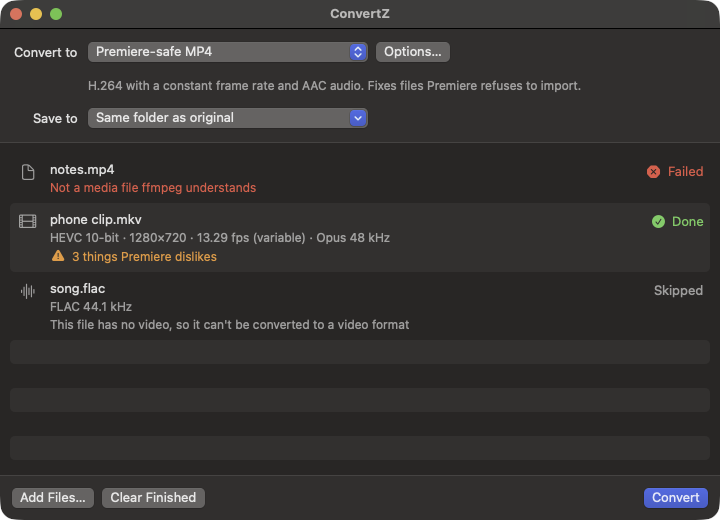
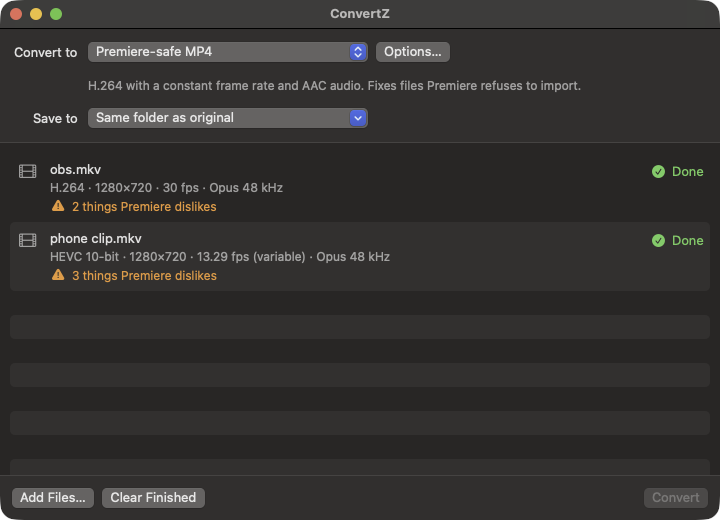
Put clean Premiere import ahead of stream copying: stricter copy rules

diff --git a/Sources/ConvertZCore/CommandBuilder.swift b/Sources/ConvertZCore/CommandBuilder.swift
@@ -56,7 +56,7 @@ public enum CommandBuilder {
                 a += ["-c:a", depth == 24 ? "pcm_s24le" : "pcm_s16le"]
                 if options.wavSampleRate != 0 { a += ["-ar", "\(options.wavSampleRate)"] }
             case .m4a:
-                if options.keepCompatibleStreams, audio.codec == "aac" {
+                if options.keepCompatibleStreams, audio.codec == "aac", audio.profile == "LC" {
                     a += ["-c:a", "copy"]
                 } else {
                     a += ["-c:a", "aac", "-b:a", "\(aacBitrate(channels: audio.channels, stereo: 256))k"]
@@ -85,7 +85,6 @@ public enum CommandBuilder {
             a += ["-map", "0:a?", "-sn", "-dn", "-map_metadata", "0"]
             if keepsVideo(preset: preset, options: options, info: info) {
                 a += ["-c:v", "copy"]
-                if video.codec == "hevc" { a += ["-tag:v", "hvc1"] }
             } else {
                 a += ["-vf", filters(video, options, pixelFormat: "yuv420p")]
                 if options.encoder == .fast {
@@ -98,7 +97,7 @@ public enum CommandBuilder {
                 a += ["-pix_fmt", "yuv420p"]
             }
             if hasAudio {
-                if options.keepCompatibleStreams, info.audio.allSatisfy({ $0.codec == "aac" }) {
+                if options.keepCompatibleStreams, info.audio.allSatisfy(\.isPremiereSafeAAC) {
                     a += ["-c:a", "copy"]
                 } else {
                     let channels = info.audio.compactMap(\.channels).max()
@@ -148,16 +147,19 @@ public enum CommandBuilder {
         return stereo * n / 2
     }
 
-    /// True when Premiere-safe MP4 can pass the video through untouched: it is already in a form Premiere reads,
-    /// nothing asks for it to change, and something else about the file (container or audio) explains why it
-    /// needs converting. A file with no visible problem at all is re-encoded in full, since whatever is wrong
-    /// with it is hidden and a copy would carry it over.
+    /// True when Premiere-safe MP4 can pass the video through untouched. Importing cleanly comes first, so this
+    /// is deliberately strict; anything in doubt is re-encoded. The video must be 8-bit 4:2:0 H.264 whose frame
+    /// timestamps were measured across the whole file and found evenly spaced, starting at zero, with nothing
+    /// asking for it to change, and something else about the file (container or audio) must explain why it needs
+    /// converting. A file with no visible problem at all is re-encoded in full, since whatever is wrong with it
+    /// is hidden and a copy would carry it over.
     public static func keepsVideo(preset: Preset, options: Options, info: MediaInfo) -> Bool {
         guard preset == .premiereMP4, options.keepCompatibleStreams, let v = info.video else { return false }
-        guard v.codec == "h264" ? (v.bitDepth == 8 && v.is420) : (v.codec == "hevc" && v.is420) else { return false }
-        guard !v.isVariableFrameRate, !v.isInterlaced, v.width % 2 == 0, v.height % 2 == 0 else { return false }
+        guard v.codec == "h264", v.bitDepth == 8, v.is420 else { return false }
+        guard v.measuredVariable == false, v.timingCoversWholeFile, !v.isVariableFrameRate else { return false }
+        guard !v.isInterlaced, v.width % 2 == 0, v.height % 2 == 0 else { return false }
         guard options.frameRate == nil, options.maxHeight.map({ v.height <= $0 }) ?? true else { return false }
-        guard info.duration != nil else { return false }
+        guard info.duration != nil, abs(info.startTime ?? 0) < 0.05 else { return false }
         return !Diagnosis.issues(for: info).isEmpty
     }
 

diff --git a/Sources/ConvertZCore/MediaInfo.swift b/Sources/ConvertZCore/MediaInfo.swift
@@ -14,6 +14,8 @@ public struct MediaInfo: Equatable, Sendable {
         public var colorTransfer: String?
         /// Set from actual frame timestamps when they were measured; headers alone miss variable frame rate in MKV.
         public var measuredVariable: Bool?
+        /// True when that measurement read every frame of the file rather than just its first two minutes.
+        public var timingCoversWholeFile = false
 
         public init(index: Int, codec: String, width: Int, height: Int, pixelFormat: String? = nil,
                     realFrameRate: Double? = nil, averageFrameRate: Double? = nil, fieldOrder: String? = nil,
@@ -58,16 +60,26 @@ public struct MediaInfo: Equatable, Sendable {
         public var channels: Int?
         /// Bits per sample for lossless sources (PCM, FLAC, ALAC); nil when unknown or lossy.
         public var bitsPerSample: Int?
+        /// Codec profile as ffprobe names it, e.g. "LC" or "HE-AAC".
+        public var profile: String?
 
-        public init(index: Int, codec: String, sampleRate: Int? = nil, channels: Int? = nil, bitsPerSample: Int? = nil) {
+        public init(index: Int, codec: String, sampleRate: Int? = nil, channels: Int? = nil, bitsPerSample: Int? = nil,
+                    profile: String? = nil) {
             self.index = index; self.codec = codec; self.sampleRate = sampleRate; self.channels = channels
-            self.bitsPerSample = bitsPerSample
+            self.bitsPerSample = bitsPerSample; self.profile = profile
+        }
+
+        /// Plain AAC-LC at 44.1 or 48 kHz, mono or stereo: the only AAC that is safe to hand Premiere as-is.
+        public var isPremiereSafeAAC: Bool {
+            codec == "aac" && profile == "LC" && [44100, 48000].contains(sampleRate ?? 0) && (1...2).contains(channels ?? 0)
         }
 
         public var isLossless: Bool { codec.hasPrefix("pcm_") || ["flac", "alac", "wavpack", "ape", "tta"].contains(codec) }
     }
 
     public var formatName: String
+    /// Timestamp of the first frame; files that do not start near zero are not safe to copy streams from.
+    public var startTime: Double?
     public var duration: Double?
     public var video: Video?
     public var audio: [Audio]
@@ -108,7 +120,7 @@ public struct MediaInfo: Equatable, Sendable {
                     bits = fmt.hasPrefix("s16") ? 16 : (fmt.hasPrefix("s32") || fmt.hasPrefix("flt") || fmt.hasPrefix("dbl")) ? 24 : 0
                 }
                 audio.append(Audio(index: index, codec: codec, sampleRate: int(s["sample_rate"]), channels: int(s["channels"]),
-                                   bitsPerSample: bits > 0 ? bits : nil))
+                                   bitsPerSample: bits > 0 ? bits : nil, profile: s["profile"] as? String))
             default:
                 break
             }
@@ -116,7 +128,9 @@ public struct MediaInfo: Equatable, Sendable {
         guard video != nil || !audio.isEmpty else { throw ParseError.notMedia }
         var duration = double(format["duration"])
         if duration == nil || duration! <= 0 { duration = streamDuration }
-        return MediaInfo(formatName: format["format_name"] as? String ?? "", duration: duration, video: video, audio: audio)
+        var info = MediaInfo(formatName: format["format_name"] as? String ?? "", duration: duration, video: video, audio: audio)
+        info.startTime = double(format["start_time"])
+        return info
     }
 
     /// One-line plain description, e.g. "HEVC 10-bit · 3840×2160 · 29.97 fps (variable) · Opus 48 kHz".

diff --git a/Tests/ConvertZCoreTests/UnitTests.swift b/Tests/ConvertZCoreTests/UnitTests.swift
@@ -10,7 +10,7 @@ final class UnitTests: XCTestCase {
     let clean = MediaInfo(formatName: "mov,mp4,m4a,3gp,3g2,mj2", duration: 10,
                           video: .init(index: 0, codec: "h264", width: 1920, height: 1080, pixelFormat: "yuv420p",
                                        realFrameRate: 30, averageFrameRate: 30),
-                          audio: [.init(index: 1, codec: "aac", sampleRate: 48000, channels: 2)])
+                          audio: [.init(index: 1, codec: "aac", sampleRate: 48000, channels: 2, profile: "LC")])
     let song = MediaInfo(formatName: "flac", duration: 200, audio: [.init(index: 0, codec: "flac", sampleRate: 96000, channels: 6)])
 
     func testFrameRateSnapping() {
@@ -98,6 +98,8 @@ final class UnitTests: XCTestCase {
         // OBS-style recording: fine H.264 and AAC, but in MKV. Nothing needs re-encoding.
         var obs = clean
         obs.formatName = "matroska,webm"
+        obs.video?.measuredVariable = false
+        obs.video?.timingCoversWholeFile = true
         XCTAssertTrue(CommandBuilder.keepsVideo(preset: .premiereMP4, options: Options(), info: obs))
         let a = try CommandBuilder.arguments(preset: .premiereMP4, options: Options(), info: obs, input: "i", output: "o.mp4")
         XCTAssertTrue(a.contains("-c:v") && a[a.firstIndex(of: "-c:v")! + 1] == "copy")
@@ -124,10 +126,23 @@ final class UnitTests: XCTestCase {
         o = Options(); o.keepCompatibleStreams = false
         XCTAssertFalse(CommandBuilder.keepsVideo(preset: .premiereMP4, options: o, info: obs))
         XCTAssertFalse(CommandBuilder.keepsVideo(preset: .hevcMP4, options: Options(), info: obs))
+        // Importing cleanly beats saving a re-encode: anything in doubt is not copied.
+        var unmeasured = obs; unmeasured.video?.measuredVariable = nil
+        XCTAssertFalse(CommandBuilder.keepsVideo(preset: .premiereMP4, options: Options(), info: unmeasured))
+        var partial = obs; partial.video?.timingCoversWholeFile = false
+        XCTAssertFalse(CommandBuilder.keepsVideo(preset: .premiereMP4, options: Options(), info: partial))
+        var hevc = obs; hevc.video?.codec = "hevc"
+        XCTAssertFalse(CommandBuilder.keepsVideo(preset: .premiereMP4, options: Options(), info: hevc))
+        var late = obs; late.startTime = 1.4
+        XCTAssertFalse(CommandBuilder.keepsVideo(preset: .premiereMP4, options: Options(), info: late))
+        // HE-AAC or surround AAC is re-encoded rather than passed through.
+        var heaac = obs; heaac.audio = [.init(index: 1, codec: "aac", sampleRate: 48000, channels: 2, profile: "HE-AAC")]
+        let c = try CommandBuilder.arguments(preset: .premiereMP4, options: Options(), info: heaac, input: "i", output: "o.mp4")
+        XCTAssertEqual(c[c.firstIndex(of: "-c:a")! + 1], "aac")
     }
 
     func testAudioKeepsQuality() throws {
-        let aacFile = MediaInfo(formatName: "aac", duration: 5, audio: [.init(index: 0, codec: "aac", sampleRate: 44100, channels: 2)])
+        let aacFile = MediaInfo(formatName: "aac", duration: 5, audio: [.init(index: 0, codec: "aac", sampleRate: 44100, channels: 2, profile: "LC")])
         let m4a = try CommandBuilder.arguments(preset: .m4a, options: Options(), info: aacFile, input: "i", output: "o.m4a")
         XCTAssertEqual(m4a[m4a.firstIndex(of: "-c:a")! + 1], "copy")
         var hires = song

diff --git a/Sources/ConvertZCore/Support.swift b/Sources/ConvertZCore/Support.swift
@@ -117,7 +117,17 @@ public enum Prober {
         process.waitUntilExit()
         guard process.terminationStatus == 0 else { throw MediaInfo.ParseError.notMedia }
         var info = try MediaInfo.parse(json: data)
-        if let video = info.video, let timing = measureTiming(file, stream: video.index, ffprobe: ffprobe) {
+        if let video = info.video, var timing = measureTiming(file, stream: video.index, ffprobe: ffprobe, wholeFile: false) {
+            // Video that looks good enough to copy untouched gets every frame checked first, not just the start.
+            var candidate = info
+            candidate.video?.measuredVariable = timing.variable
+            candidate.video?.timingCoversWholeFile = true
+            if !timing.variable, (info.duration ?? 0) > 110,
+               CommandBuilder.keepsVideo(preset: .premiereMP4, options: Options(), info: candidate) {
+                guard let full = measureTiming(file, stream: video.index, ffprobe: ffprobe, wholeFile: true) else { return info }
+                timing = full
+            }
+            info.video?.timingCoversWholeFile = true
             info.video?.measuredVariable = timing.variable
             // MKV/WebM headers carry a nominal rate, not the real average, so trust the measurement there.
             if info.formatName.contains("matroska") || info.formatName.contains("webm") || video.averageFrameRate == nil {
@@ -128,11 +138,11 @@ public enum Prober {
     }
 
     /// Reads the frame timestamps of the first two minutes (packet headers only, so it is quick).
-    static func measureTiming(_ file: URL, stream: Int, ffprobe: URL) -> FrameTiming? {
+    static func measureTiming(_ file: URL, stream: Int, ffprobe: URL, wholeFile: Bool) -> FrameTiming? {
         let process = Process()
         process.executableURL = ffprobe
-        process.arguments = ["-v", "error", "-select_streams", "\(stream)", "-read_intervals", "%+120",
-                             "-show_entries", "packet=pts_time", "-of", "csv=p=0", file.path]
+        process.arguments = ["-v", "error", "-select_streams", "\(stream)"] + (wholeFile ? [] : ["-read_intervals", "%+120"])
+            + ["-show_entries", "packet=pts_time", "-of", "csv=p=0", file.path]
         let out = Pipe()
         process.standardOutput = out
         process.standardError = FileHandle.nullDevice

diff --git a/docs/design.md b/docs/design.md
@@ -132,11 +132,15 @@ Premiere-safe MP4 rules (the heart of the app):
 
 ## Keeping quality (added after the first release, at the owner's request)
 
-- Premiere-safe MP4 copies the video untouched when it is already H.264 (8-bit 4:2:0) or HEVC with a constant
-  frame rate, even dimensions, no interlacing and no resolution or frame-rate change requested, **and** the file
+- Importing cleanly in Premiere outranks avoiding a re-encode: the copy rules are strict and anything in doubt
+  is re-encoded.
+- Premiere-safe MP4 copies the video untouched when it is already H.264 (8-bit 4:2:0) whose frame timing has
+  been measured across the whole file and found constant, starting at zero, with even dimensions, no
+  interlacing and no resolution or frame-rate change requested, **and** the file
   has some other diagnosed problem (container or audio) that explains the conversion. A file with no diagnosed
   problem is always re-encoded in full, because its fault is hidden and a copy would carry it over.
-- Audio that is already AAC is copied into MP4/M4A; MP3 is copied into MP3.
+- Audio that is already plain AAC-LC (44.1/48 kHz, mono or stereo) is copied into MP4; AAC-LC into M4A; MP3
+  into MP3.
 - If a conversion that copied a stream fails or fails verification, it is retried with full re-encoding.
 - One option, on by default, turns all of this off ("Don't re-encode what is already compatible").
 - Re-encoding defaults are visually lossless: x264 CRF 16, AAC 320k for stereo and proportionally more for

diff --git a/README.md b/README.md
@@ -14,8 +14,11 @@ audio), without having to remember ffmpeg flags.
 - **Premiere-safe MP4** (the default) re-encodes to H.264, 8-bit 4:2:0, constant frame rate, AAC 48 kHz.
 - **Keeps as much quality as it can.** Video or audio that is already fine is copied untouched rather than
   re-encoded: an OBS recording in MKV, for example, becomes an MP4 with bit-for-bit the same picture. Only the
-  parts that are the problem get converted, and those at visually lossless settings by default. If a copy turns
-  out not to work, the file is re-encoded automatically.
+  parts that are the problem get converted, and those at visually lossless settings by default.
+- **Importing cleanly comes first.** Video is only copied when it is plain 8-bit H.264 and every frame's timing
+  has been checked and found constant; anything in doubt is re-encoded, as is any file with no visible problem.
+  If a copy turns out not to work, the file is re-encoded automatically, and one switch in Options turns copying
+  off altogether.
 - Converts a whole queue, with progress, time remaining and cancel.
 - Never overwrites or deletes your original. Unfinished files are removed, never left looking complete.
 - Checks every converted file by reading it back before calling it done.
